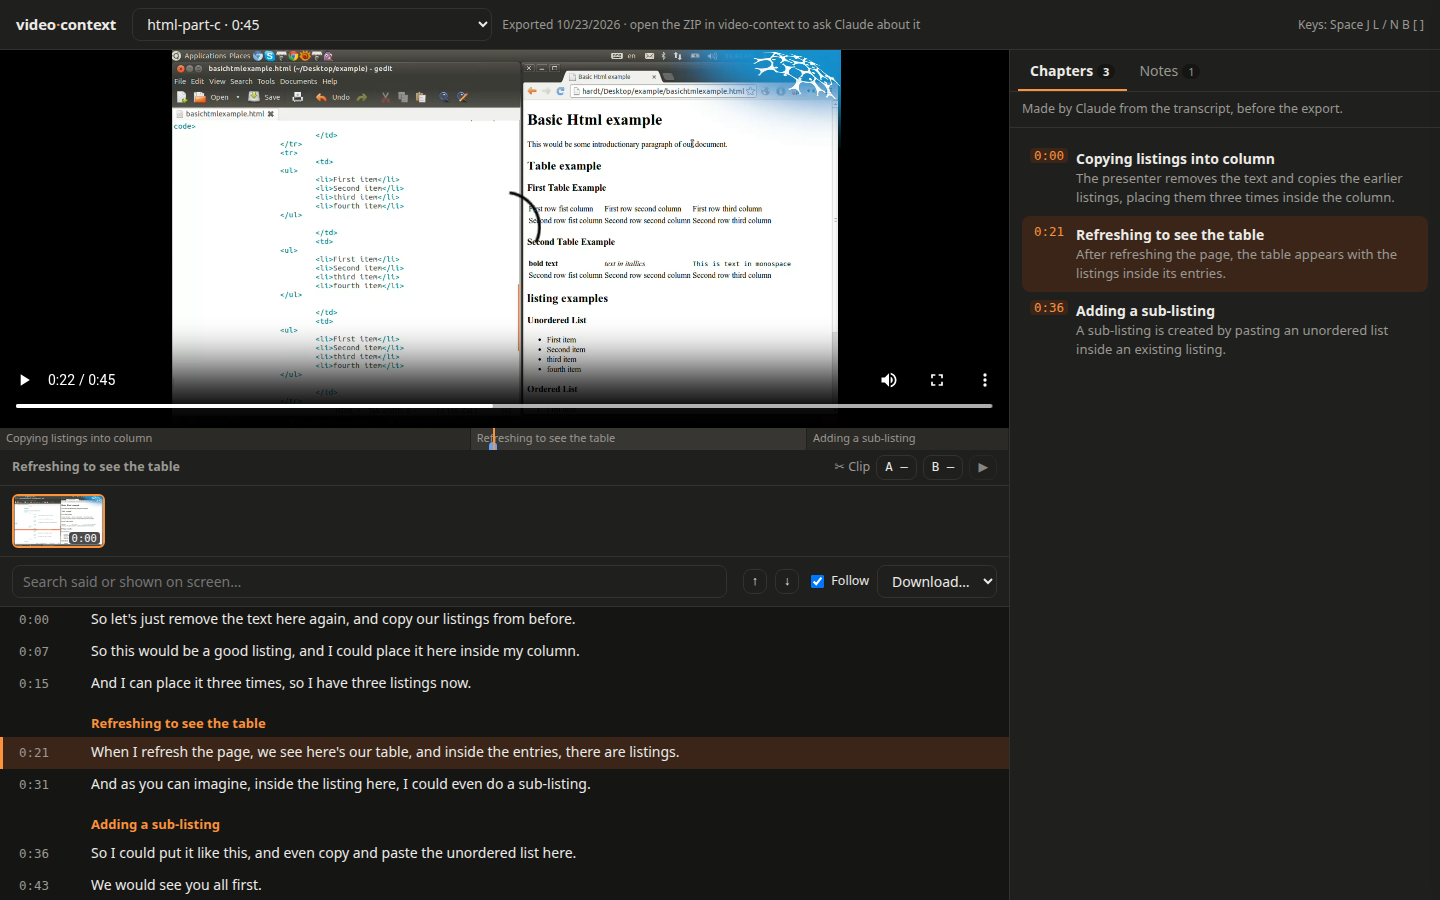
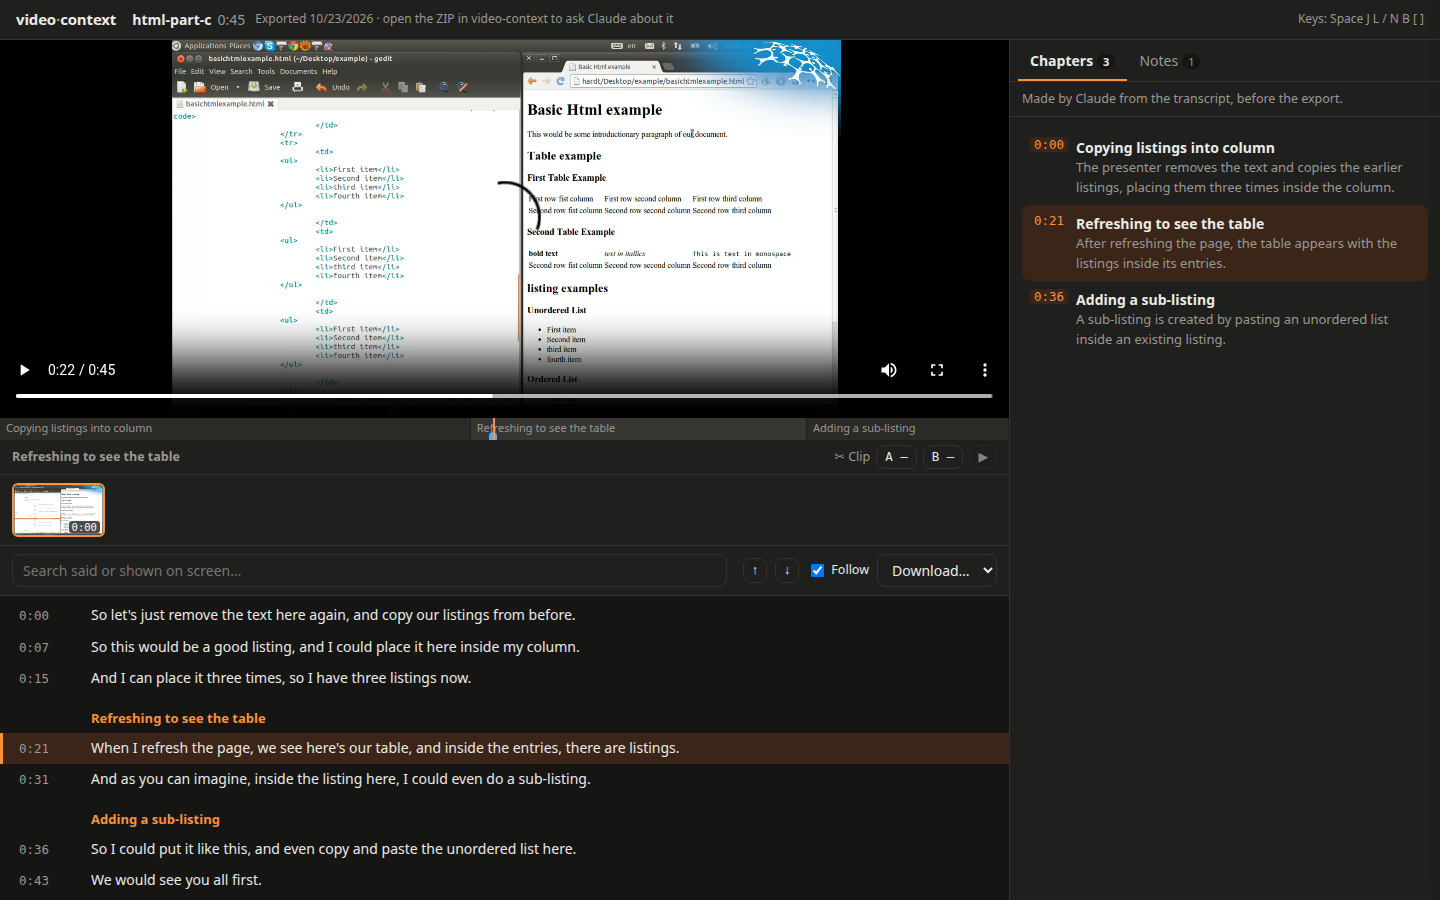
Exported page: the video's title instead of a list of one video
Also written into the HTML at export, with the page's title.

diff --git a/ui/index.html b/ui/index.html
@@ -205,7 +205,11 @@ progress { width: 100%; accent-color: var(--accent); }
 #scrim { position: fixed; inset: 0; z-index: 19; background: rgba(0,0,0,.25); }
 /* A page exported with its video: no server behind it. */
 .static #newBtn, .static #exportBtn, .static #queueBtn, .static #logsBtn, .static header label, .static #tabs [data-tab=chat], .static #genChapters,
-.static #clipMp4, .static #clipGif, .static #searchAllLabel, .static #selAsk { display: none !important; }
+.static #clipMp4, .static #clipGif, .static #searchAllLabel, .static #selAsk, .static #videoSelect { display: none !important; }
+/* One video in an exported page: its title instead of the list. */
+#videoTitle { display: none; font-weight: 600; min-width: 0; white-space: nowrap; overflow: hidden; text-overflow: ellipsis; }
+.static #videoTitle { display: block; }
+#videoTitle .muted { font-weight: 400; margin-left: 6px; }
 #exportedTag { font-size: 12px; color: var(--muted); }
 #toast button { margin-left: 10px; background: none; border: 0; color: var(--accent); font-weight: 600; padding: 0; }
 #toast { position: fixed; bottom: 16px; left: 50%; transform: translateX(-50%); background: var(--text); color: var(--bg); padding: 8px 14px; border-radius: 8px; font-size: 13px; z-index: 30; max-width: calc(100vw - 32px); }
@@ -221,6 +225,7 @@ progress { width: 100%; accent-color: var(--accent); }
 <header>
   <h1>video<span>·</span>context</h1>
   <select id="videoSelect" aria-label="Video"></select>
+  <span id="videoTitle"></span>
   <button class="btn" id="exportBtn" title="Download this video as a ZIP: the video, its transcript, frames, chapters and notes, and a page that opens without a server. video-context imports it back without processing.">Export</button>
   <button class="btn primary" id="newBtn">+ New video</button>
   <span id="exportedTag" hidden></span>
@@ -1176,6 +1181,8 @@ $('#logsClear').onclick = async () => { await api('/api/logs', { method: 'DELETE
   if (EXPORT) {
     // No Claude here: the chapters (or the notes) instead of the chat.
     $('#chapStatus').textContent = 'Made by Claude from the transcript, before the export.'
+    $('#videoTitle').innerHTML = `${esc(EXPORT.title)}<span class="muted">${fmt(EXPORT.manifest.duration)}</span>`
+    $('#videoTitle').title = EXPORT.title
     $('#exportedTag').hidden = false
     $('#exportedTag').textContent = `Exported ${new Date(EXPORT.exportedAt).toLocaleDateString()} · open the ZIP in video-context to ask Claude about it`
     showTab(EXPORT.chapters.length ? 'chapters' : 'notes')

diff --git a/src/export.ts b/src/export.ts
@@ -35,6 +35,8 @@ export interface ExportData extends ExportInfo {
   notes: Note[]
 }
 
+const escapeHtml = (text: string): string => text.replace(/[&<>"']/g, (c) => ({ '&': '&amp;', '<': '&lt;', '>': '&gt;', '"': '&quot;', "'": '&#39;' })[c]!)
+
 /** A file or folder name from a title. */
 export function safeName(title: string): string {
   return title.replace(/[\\/:*?"<>|\u0000-\u001f]+/g, '_').replace(/\s+/g, ' ').trim().slice(0, 100) || 'video'
@@ -68,6 +70,8 @@ export function exportArchive(id: string, page: string): { name: string; entries
   // Marked as exported in the HTML itself, so that what needs the server is hidden even before (or without) the script.
   const html = page
     .replace('<html lang="en">', '<html lang="en" class="static">')
+    .replace('<span id="videoTitle"></span>', `<span id="videoTitle">${escapeHtml(m.title)}</span>`)
+    .replace('<title>video-context</title>', `<title>${escapeHtml(m.title)} — video-context</title>`)
     .replace('<!-- video-context:export -->', `<script>window.VIDEO_CONTEXT_EXPORT = ${json}</script>`)
   const at = (name: string): string => posix.join(folder, name)
   const entries: ZipInput[] = [
